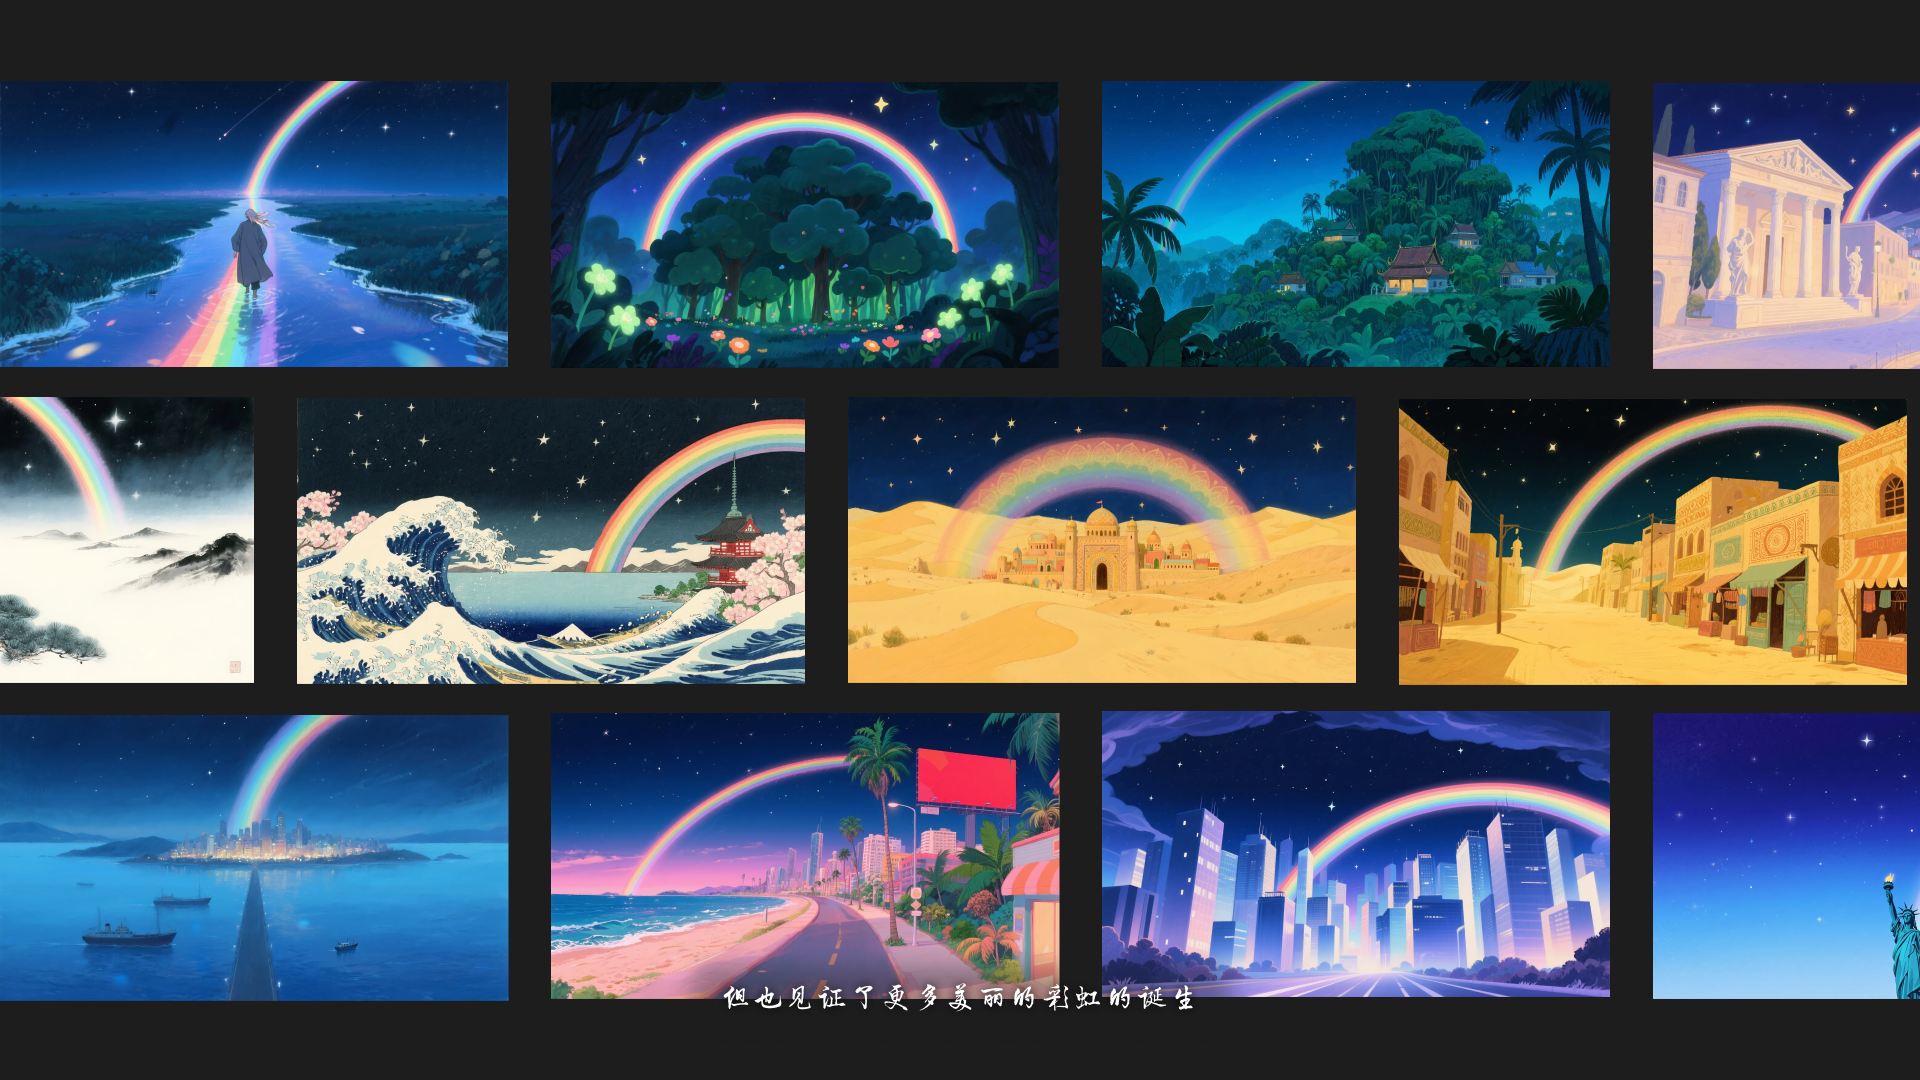
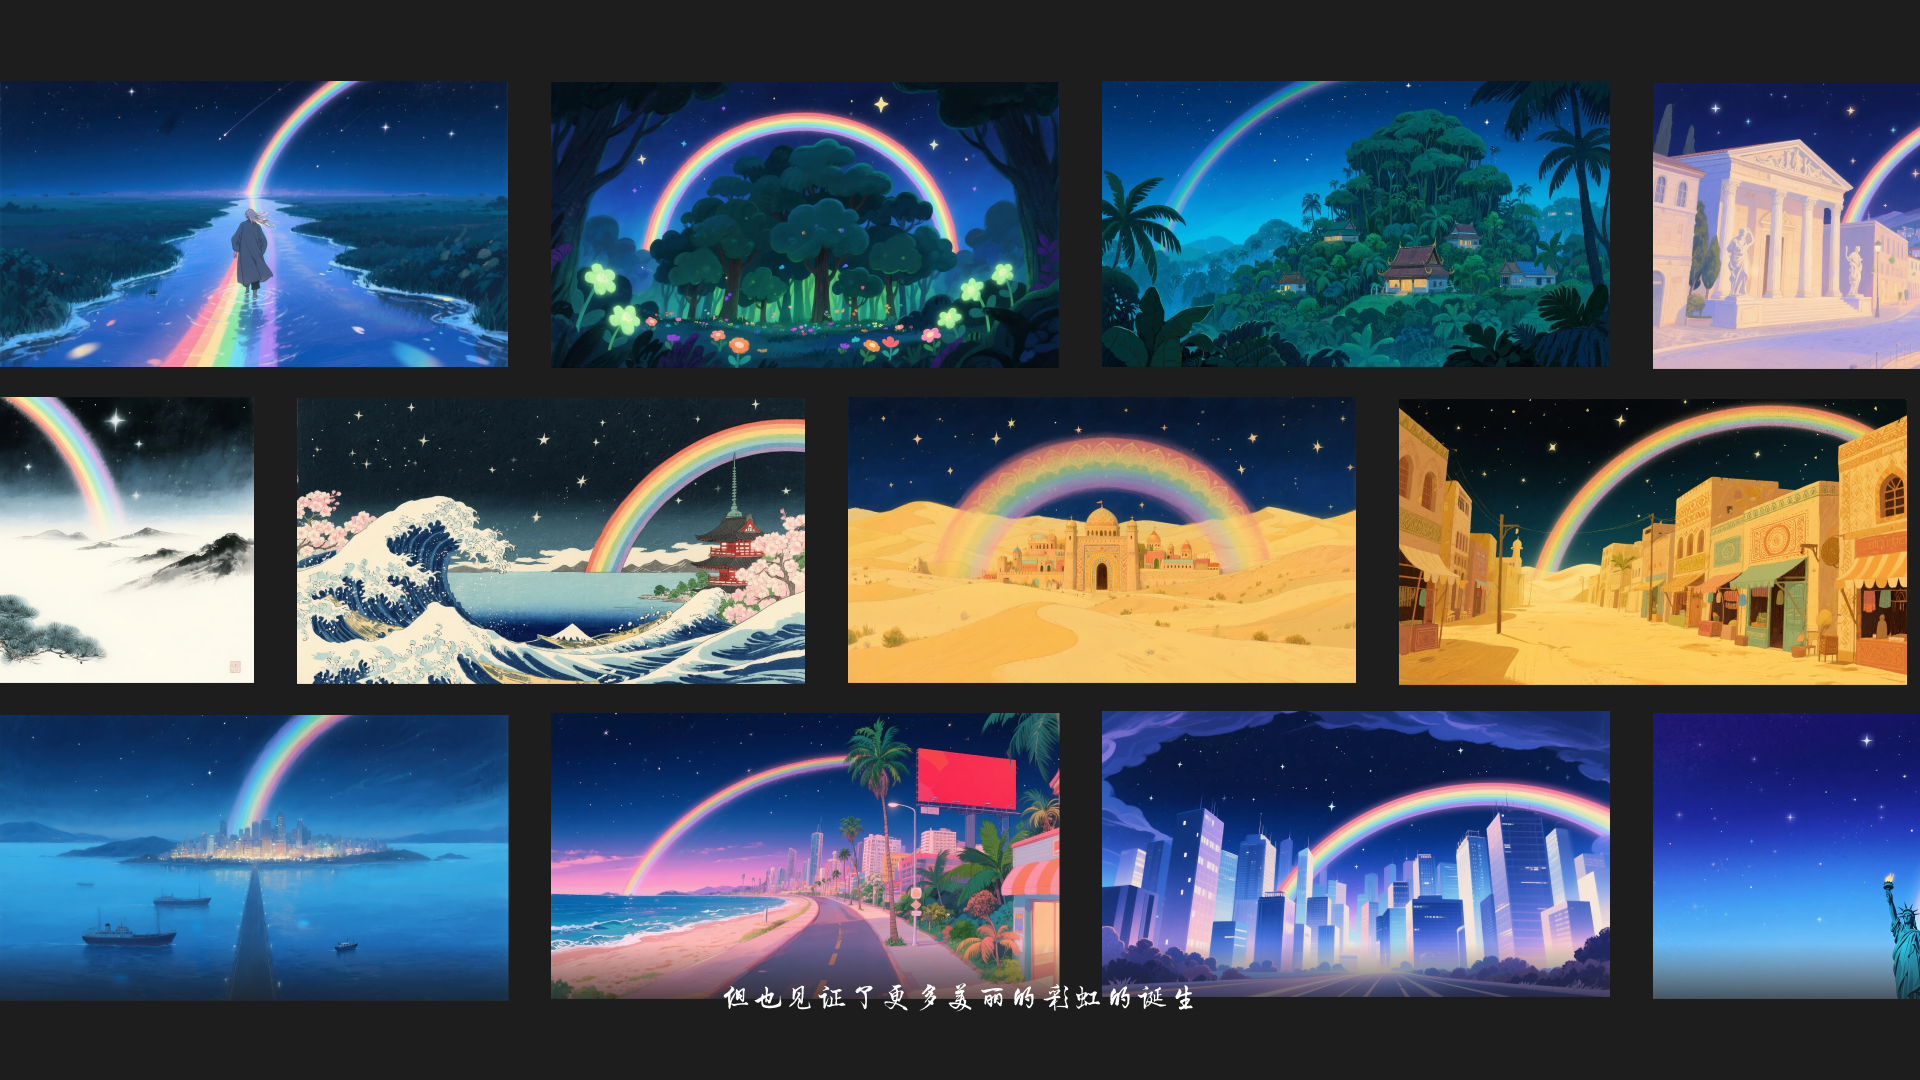
初步做了隐藏的第三章的滚动效果

Changed region(s): [[0.625, 0.8556, 1.0, 0.9472], [0.0, 0.8556, 0.375, 0.9472], [0.4688, 0.8861, 0.5625, 0.9472]]

diff --git a/pages/hide_sec3.html b/pages/hide_sec3.html
@@ -4,7 +4,7 @@
   <meta charset="UTF-8">
   <meta name="viewport" content="width=device-width, initial-scale=1.0">
   <title>页面切换效果</title>
-  <link rel="stylesheet" href="../styles/hide_sec/hide_sec.css">
+  <link rel="stylesheet" href="../styles/hide_sec/hide_sec3.css">
 </head>
 <body>
   <!-- 第一页：图片 -->
@@ -20,16 +20,67 @@
     </div>
   </div>
   <!-- 第二页：图片 -->
-  <div class="page" id="page7">
+  <div class="page" id="page2">
     <img src="../assets/images/hide_sec3/second.png" alt="第二页图片" id="page2-img">
   </div>
-  <!-- 第三页：图片 -->
-  <div class="page" id="page7">
-    <img src="../assets/images/hide_sec3/third.png" alt="第三页图片" id="page3-img">
+  <!-- 第三页：多行滚动图片 -->
+  <div class="page" id="page3">
+    <!-- 背景图 -->
+    <img src="../assets/images/hide_sec3/third.png" alt="第三页背景" class="bg-image">
+    
+    <!-- 第一排：向右滚动 -->
+    <div class="scroll-row right" style="top: 7.5vh;">
+      <img src="../assets/images/hide_sec3/third/1.png" alt="第三页第一排图1" class="scroll-img">
+      <img src="../assets/images/hide_sec3/third/2.png" alt="第三页第一排图2" class="scroll-img">
+      <img src="../assets/images/hide_sec3/third/3.png" alt="第三页第一排图3" class="scroll-img">
+      <img src="../assets/images/hide_sec3/third/4.png" alt="第三页第一排图4" class="scroll-img">
+    </div>
+    
+    <!-- 第二排：向左滚动 -->
+    <div class="scroll-row left" style="top: 36.8vh;">
+      <img src="../assets/images/hide_sec3/third/5.png" alt="第三页第二排图1" class="scroll-img">
+      <img src="../assets/images/hide_sec3/third/6.png" alt="第三页第二排图2" class="scroll-img">
+      <img src="../assets/images/hide_sec3/third/7.png" alt="第三页第二排图3" class="scroll-img">
+      <img src="../assets/images/hide_sec3/third/8.png" alt="第三页第二排图4" class="scroll-img">
+    </div>
+    
+    <!-- 第三排：向右滚动 -->
+    <div class="scroll-row right" style="top: 66.2vh;">
+      <img src="../assets/images/hide_sec3/third/9.png" alt="第三页第三排图1" class="scroll-img">
+      <img src="../assets/images/hide_sec3/third/10.png" alt="第三页第三排图2" class="scroll-img">
+      <img src="../assets/images/hide_sec3/third/11.png" alt="第三页第三排图3" class="scroll-img">
+      <img src="../assets/images/hide_sec3/third/12.png" alt="第三页第三排图4" class="scroll-img">
+    </div>
   </div>
-  <!-- 第四页：图片 -->
-  <div class="page" id="page7">
-    <img src="../assets/images/hide_sec3/fourth.png" alt="第四页图片" id="page4-img">
+  
+  <!-- 第四页：多行滚动图片 -->
+  <div class="page" id="page4">
+    <!-- 背景图 -->
+    <img src="../assets/images/hide_sec3/fourth.png" alt="第四页背景" class="bg-image">
+    
+    <!-- 第一排：向右滚动 -->
+    <div class="scroll-row right" style="top: 7.5vh;">
+      <img src="../assets/images/hide_sec3/fourth-row1-1.png" alt="第四页第一排图1" class="scroll-img">
+      <img src="../assets/images/hide_sec3/fourth-row1-2.png" alt="第四页第一排图2" class="scroll-img">
+      <img src="../assets/images/hide_sec3/fourth-row1-3.png" alt="第四页第一排图3" class="scroll-img">
+      <img src="../assets/images/hide_sec3/fourth-row1-4.png" alt="第四页第一排图4" class="scroll-img">
+    </div>
+    
+    <!-- 第二排：向左滚动 -->
+    <div class="scroll-row left" style="top: 36.8vh;">
+      <img src="../assets/images/hide_sec3/fourth-row2-1.png" alt="第四页第二排图1" class="scroll-img">
+      <img src="../assets/images/hide_sec3/fourth-row2-2.png" alt="第四页第二排图2" class="scroll-img">
+      <img src="../assets/images/hide_sec3/fourth-row2-3.png" alt="第四页第二排图3" class="scroll-img">
+      <img src="../assets/images/hide_sec3/fourth-row2-4.png" alt="第四页第二排图4" class="scroll-img">
+    </div>
+    
+    <!-- 第三排：向右滚动 -->
+    <div class="scroll-row right" style="top: 66.2vh;">
+      <img src="../assets/images/hide_sec3/fourth-row3-1.png" alt="第四页第三排图1" class="scroll-img">
+      <img src="../assets/images/hide_sec3/fourth-row3-2.png" alt="第四页第三排图2" class="scroll-img">
+      <img src="../assets/images/hide_sec3/fourth-row3-3.png" alt="第四页第三排图3" class="scroll-img">
+      <img src="../assets/images/hide_sec3/fourth-row3-4.png" alt="第四页第三排图4" class="scroll-img">
+    </div>
   </div>
 
   <script src="../scripts/sec1/jianbian.js"></script>

diff --git a/styles/hide_sec/hide_sec3.css b/styles/hide_sec/hide_sec3.css
@@ -1,0 +1,142 @@
+/* 全局样式重置 */
+* {
+  margin: 0;
+  padding: 0;
+  box-sizing: border-box;
+}
+
+body {
+  overflow: hidden;
+  position: relative;
+  width: 100vw;
+  height: 100vh;
+}
+
+/* 页面容器通用样式 */
+.page {
+  position: absolute;
+  top: 0;
+  left: 0;
+  width: 100vw;
+  height: 100vh;
+  opacity: 0;
+  transition: opacity 1s ease-in-out;
+  background-color: #1D1D1D;
+}
+
+/* 初始显示第一页 */
+#page1 {
+  opacity: 1;
+  background-color: black;
+}
+
+/* 第一页和第二页的图片样式 - 保持全屏覆盖 */
+#page1 img, #page2 img {
+  position: absolute;
+  top: 0;
+  left: 0;
+  width: 100%;
+  height: 100%;
+  object-fit: cover; /* 关键属性：保持图片比例并覆盖整个容器 */
+  border-radius: 0;
+}
+
+/* 第三页和第四页的背景图样式 */
+#page3 .bg-image, #page4 .bg-image {
+  position: absolute;
+  top: 0;
+  left: 0;
+  width: 100%;
+  height: 100%;
+  object-fit: cover; /* 保持图片比例并覆盖整个容器 */
+  z-index: 0;
+}
+
+/* 滚动行样式 */
+.scroll-row {
+  position: absolute;
+  left: 0;
+  width: 100%;
+  height: 26.5vh; /* 286px相对于1080px */
+  display: flex;
+  overflow: hidden;
+  z-index: 1;
+}
+
+/* 向右滚动的行 */
+.scroll-row.right {
+  animation: scroll-right 20s linear infinite;
+}
+
+/* 向左滚动的行 */
+.scroll-row.left {
+  animation: scroll-left 20s linear infinite;
+}
+
+/* 滚动图片样式 */
+.scroll-img {
+  height: 100%;
+  width: auto;
+  margin-right: 1vw;
+  flex-shrink: 0;
+}
+
+/* 向右滚动动画 */
+@keyframes scroll-right {
+  0% {
+    transform: translateX(-100%);
+  }
+  100% {
+    transform: translateX(0);
+  }
+}
+
+/* 向左滚动动画 */
+@keyframes scroll-left {
+  0% {
+    transform: translateX(0);
+  }
+  100% {
+    transform: translateX(-100%);
+  }
+}
+
+/* 文本层样式 */
+.text-layer {
+  position: absolute;
+  font-family: "KaiTi", "楷体", serif;
+  font-weight: regular;
+  font-size: 1.67vw;
+  color: #FFFFFF;
+  text-align: left;
+  line-height: normal;
+  text-shadow: 0px 0px 0.64vw rgba(0, 0, 0, 1);
+  opacity: 1;
+  white-space: nowrap;
+  z-index: 2;
+}
+
+/* 第一个文本层位置 */
+#text1 {
+  left: 40.83vw;
+  top: 83.52vh;
+  width: 18.33vw;
+  height: 3.15vh;
+}
+
+/* 第二个文本层位置 */
+#text2 {
+  left: 36.67vw;
+  top: 90.28vh;
+  width: 26.67vw;
+  height: 3.15vh;
+}
+
+/* 针对宽屏设备的优化 */
+@media (min-aspect-ratio: 16/9) {
+  .page video {
+    width: 100vw;
+    height: auto;
+    max-height: 87.04vh;
+  }
+}
